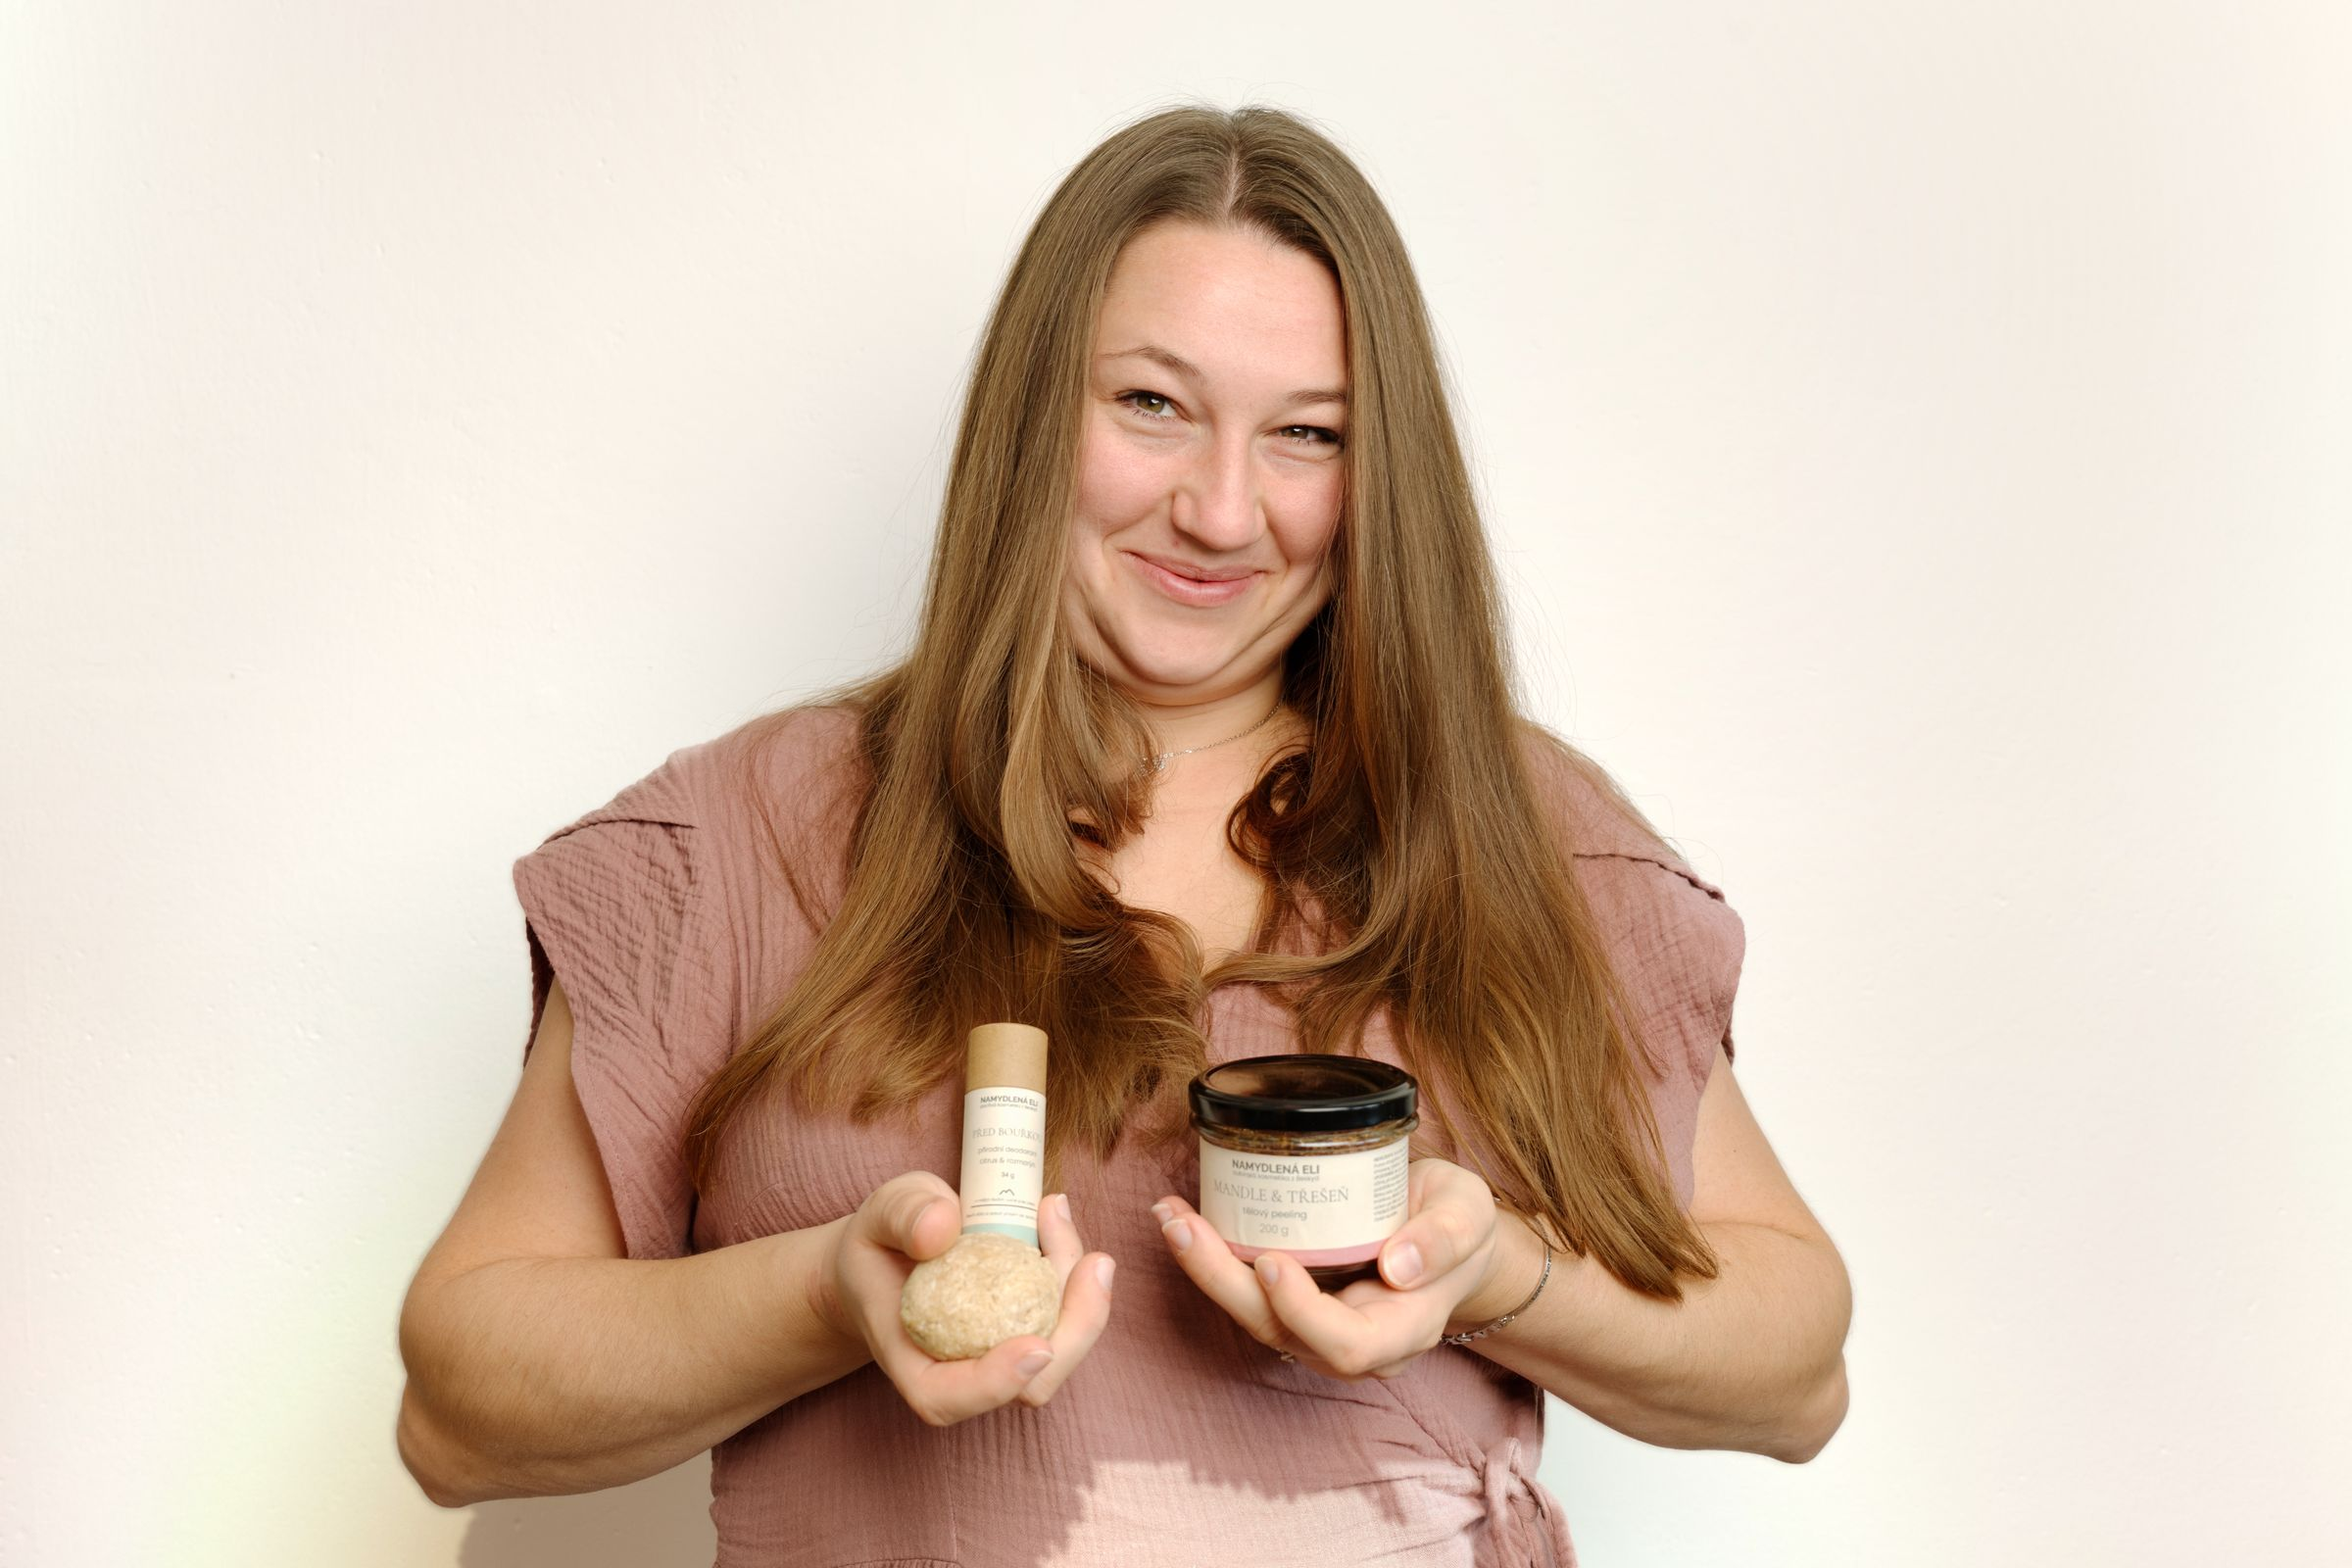
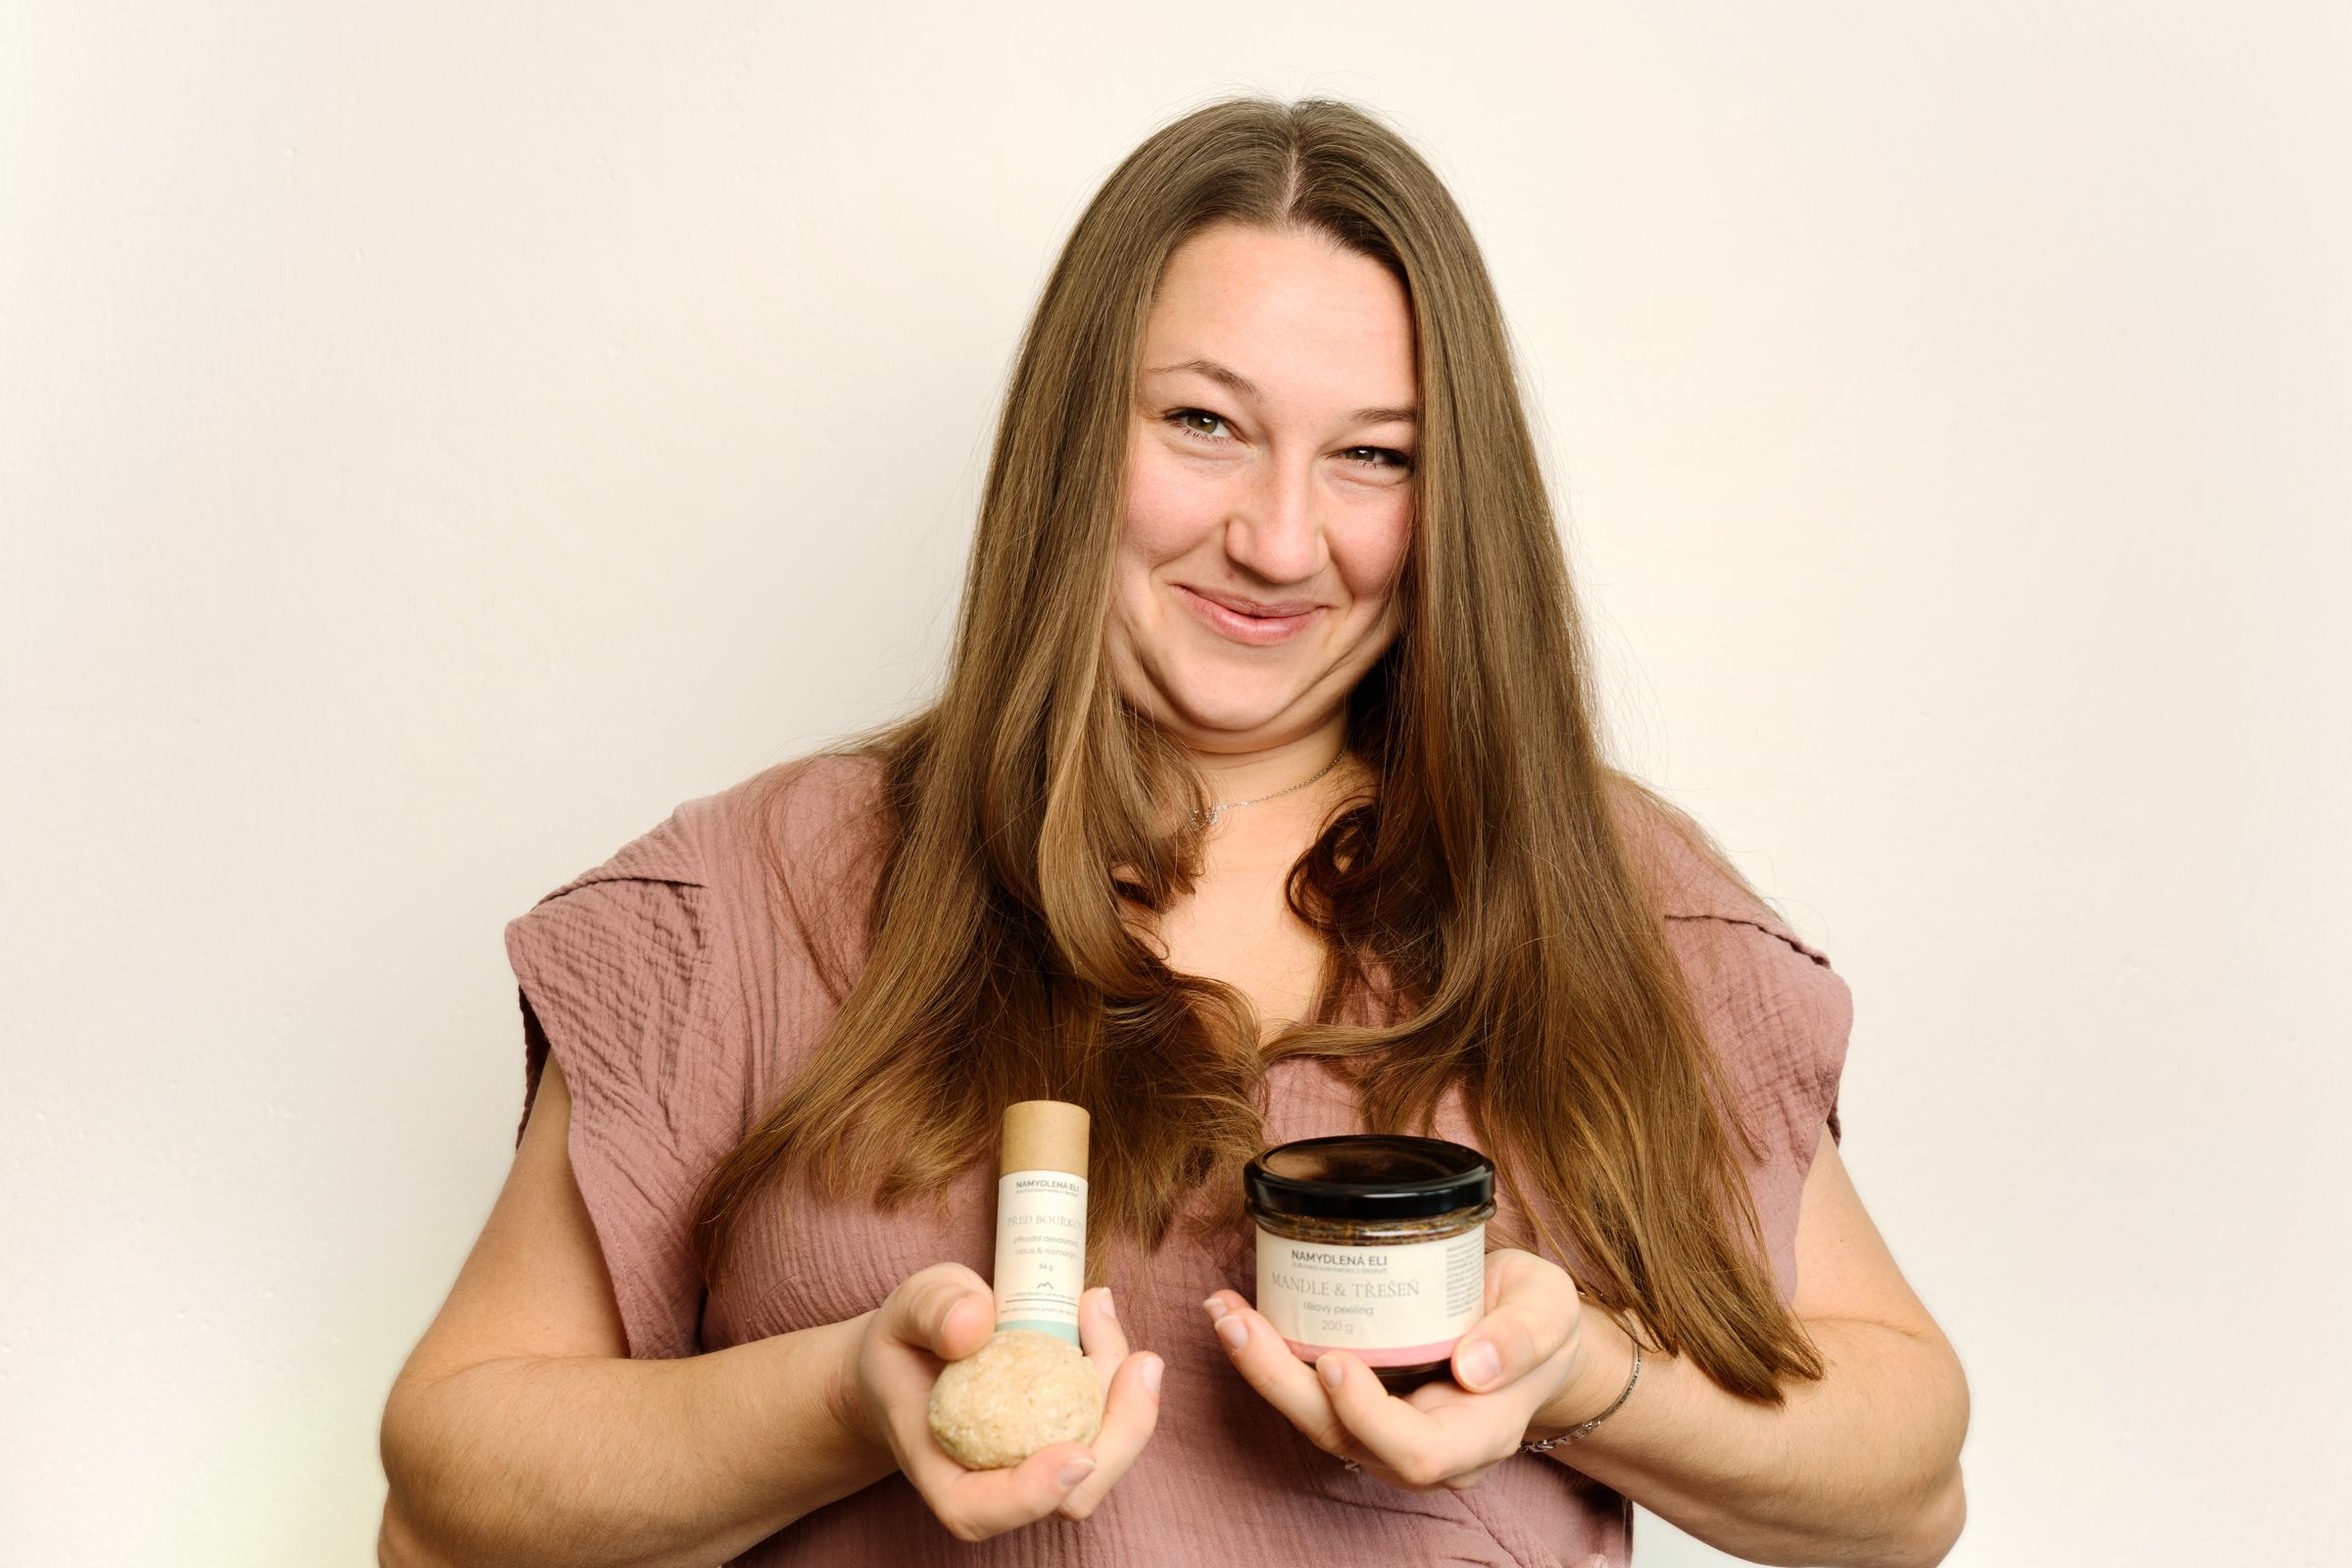
Hero: víc kontrastu, měkčí světlo kolem Eli, těsnější ořez (Eli větší), přechod níž
Claude-Session: https://claude.ai/code/session_01UK9euBQguxhNQCUwcH9N8D

diff --git a/css/eli.css b/css/eli.css
@@ -130,7 +130,7 @@ html.eli{
 .eli .eli-hero--box .eli-hero__media{max-width:980px;border-radius:var(--eli-r-box);overflow:hidden}
 .eli .eli-hero--bleed{padding-top:0}
 /* bleed: fade top and sides too, so no edge of the photo is ever visible */
-.eli .eli-hero--bleed .eli-hero__media{max-width:1040px;-webkit-mask-image:linear-gradient(to bottom,transparent 0,#000 7%,#000 72%,transparent 99%),linear-gradient(to right,transparent 0,#000 9%,#000 91%,transparent 100%);-webkit-mask-composite:source-in;mask-image:linear-gradient(to bottom,transparent 0,#000 7%,#000 72%,transparent 99%),linear-gradient(to right,transparent 0,#000 9%,#000 91%,transparent 100%);mask-composite:intersect}
+.eli .eli-hero--bleed .eli-hero__media{max-width:1100px;-webkit-mask-image:linear-gradient(to bottom,transparent 0,#000 6%,#000 80%,transparent 100%),linear-gradient(to right,transparent 0,#000 9%,#000 91%,transparent 100%);-webkit-mask-composite:source-in;mask-image:linear-gradient(to bottom,transparent 0,#000 6%,#000 80%,transparent 100%),linear-gradient(to right,transparent 0,#000 9%,#000 91%,transparent 100%);mask-composite:intersect}
 .eli .eli-hero__body{position:relative;display:flex;flex-direction:column;align-items:center;gap:16px;margin-top:-24px;text-align:center}
 .eli .eli-hero__lead{max-width:330px;font-size:18px;line-height:1.6}
 .eli .eli-hero__cta{padding-top:8px}
